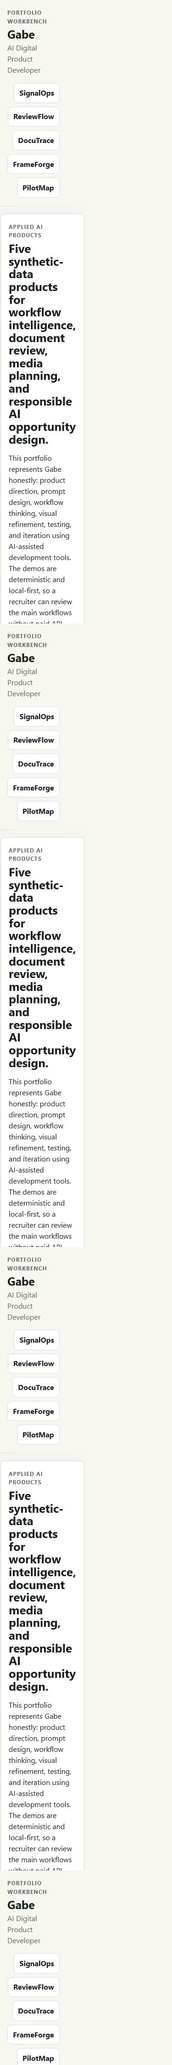
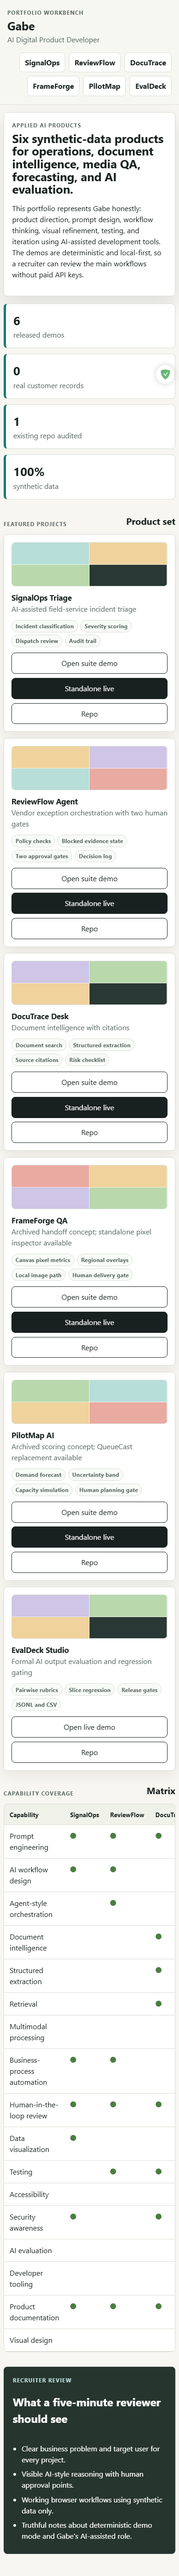
feat: integrate EvalDeck into portfolio

diff --git a/assets/portfolio.js b/assets/portfolio.js
@@ -15,6 +15,8 @@
     "Testing",
     "Accessibility",
     "Security awareness",
+    "AI evaluation",
+    "Developer tooling",
     "Product documentation",
     "Visual design"
   ];
@@ -99,6 +101,22 @@
       oversight: "No worker schedule or employment action is created; a workforce planner adopts or rejects each scenario.",
       features: ["Demand forecast", "Uncertainty band", "Capacity simulation", "Human planning gate"],
       capabilities: ["Prompt engineering", "AI workflow design", "Business-process automation", "Human-in-the-loop review", "Data visualization", "Security awareness", "Product documentation"]
+    },
+    evaldeck: {
+      name: "EvalDeck Studio",
+      shortName: "EvalDeck",
+      subtitle: "Formal AI output evaluation and regression gating",
+      path: "https://jubjub-cpu.github.io/evaldeck-studio/",
+      pathLabel: "Open live demo",
+      standaloneRepo: "https://github.com/jubjub-cpu/evaldeck-studio",
+      standaloneRelease: "https://github.com/jubjub-cpu/evaldeck-studio/releases/tag/v1.0.0",
+      accent: "violet",
+      problem: "AI product teams need repeatable evidence that prompt or model changes do not hide safety, grounding, format, or slice regressions.",
+      user: "AI product engineers, prompt engineers, evaluation specialists, and QA leads",
+      ai: "Scores baseline and candidate outputs with four transparent rubrics, aggregates slice health and disagreement, and applies configurable regression gates.",
+      oversight: "Raw scores remain visible; reasoned human overrides and the final release decision are recorded separately.",
+      features: ["Pairwise rubrics", "Slice regression", "Release gates", "JSONL and CSV"],
+      capabilities: ["Prompt engineering", "AI workflow design", "Human-in-the-loop review", "Data visualization", "Testing", "Accessibility", "Security awareness", "AI evaluation", "Developer tooling", "Product documentation"]
     }
   };
 
@@ -254,7 +272,7 @@
           ${product.features.map((feature) => `<span class="tag">${feature}</span>`).join("")}
         </div>
         <div class="button-row project-actions">
-          <a class="button-link secondary" href="${product.path}">Open suite demo</a>
+          <a class="button-link secondary" href="${product.path}">${product.pathLabel || "Open suite demo"}</a>
           ${product.standaloneDemo ? `<a class="button-link" href="${product.standaloneDemo}">Standalone live</a>` : ""}
           ${product.standaloneRepo ? `<a class="button-link secondary" href="${product.standaloneRepo}">Repo</a>` : ""}
         </div>

diff --git a/index.html b/index.html
@@ -4,7 +4,7 @@
   <meta charset="utf-8">
   <meta name="viewport" content="width=device-width, initial-scale=1">
   <title>Gabe - AI Digital Product Developer</title>
-  <meta name="description" content="A truthful portfolio of AI-assisted digital product demos built around practical business workflows.">
+  <meta name="description" content="Six truthful AI-assisted digital product demos spanning operations, documents, media QA, forecasting, and AI evaluation.">
   <link rel="stylesheet" href="assets/styles.css">
 </head>
 <body data-page="portfolio">
@@ -21,6 +21,7 @@
       <a href="projects/doctrace-desk/index.html">DocuTrace</a>
       <a href="projects/frameforge-qa/index.html">FrameForge</a>
       <a href="projects/pilotmap-ai/index.html">PilotMap</a>
+      <a href="https://jubjub-cpu.github.io/evaldeck-studio/">EvalDeck</a>
     </nav>
   </header>
 
@@ -28,14 +29,14 @@
     <section class="intro-grid" aria-labelledby="portfolio-title">
       <div class="intro-copy">
         <p class="eyebrow">Applied AI products</p>
-        <h2 id="portfolio-title">Five synthetic-data products for workflow intelligence, document review, media planning, and responsible AI opportunity design.</h2>
+        <h2 id="portfolio-title">Six synthetic-data products for operations, document intelligence, media QA, forecasting, and AI evaluation.</h2>
         <p>
           This portfolio represents Gabe honestly: product direction, prompt design, workflow thinking, visual refinement, testing, and iteration using AI-assisted development tools.
           The demos are deterministic and local-first, so a recruiter can review the main workflows without paid API keys.
         </p>
       </div>
       <div class="audit-strip" aria-label="Portfolio audit summary">
-        <div><strong>5</strong><span>complete demos</span></div>
+        <div><strong>6</strong><span>released demos</span></div>
         <div><strong>0</strong><span>real customer records</span></div>
         <div><strong>1</strong><span>existing repo audited</span></div>
         <div><strong>100%</strong><span>synthetic data</span></div>
@@ -75,4 +76,3 @@
   <script src="assets/portfolio.js"></script>
 </body>
 </html>
-

diff --git a/assets/styles.css b/assets/styles.css
@@ -219,7 +219,7 @@ textarea {
 
 .project-grid {
   display: grid;
-  grid-template-columns: repeat(5, minmax(190px, 1fr));
+  grid-template-columns: repeat(3, minmax(0, 1fr));
   gap: 0.85rem;
 }
 

diff --git a/docs/FINAL_PORTFOLIO_REPORT.md b/docs/FINAL_PORTFOLIO_REPORT.md
@@ -2,7 +2,7 @@
 
 ## Executive Summary
 
-The first five-project AI Digital Product Developer portfolio is complete as a published static release. It includes five runnable synthetic-data product demos, central portfolio documentation, a capability matrix, case studies, validation checks, screenshots, closed milestone issues, a GitHub release, and next-project prompts.
+The five-project foundation is complete and the portfolio has expanded to six released products with EvalDeck Studio, the first Phase Two release. The published work includes runnable synthetic-data demos, central documentation, a capability matrix, case studies, validation checks, screenshots, closed milestone issues, and versioned GitHub releases.
 
 ## Gabe's Portfolio Positioning
 
@@ -17,6 +17,7 @@ Gabe is positioned as an AI Digital Product Developer who uses AI-assisted devel
 | DocuTrace Desk | [Suite demo](https://jubjub-cpu.github.io/gabe-ai-product-portfolio/projects/doctrace-desk/) / [Standalone demo](https://jubjub-cpu.github.io/doctrace-desk/) | Document review needs source evidence. | Procurement and operations reviewers | Retrieval, cited answers, extraction, version comparison, human verification. | Static HTML/CSS/JS | Logic, repository, local browser, and deployed browser checks passed | Standalone v1.0.0 published |
 | FrameForge Inspect | [Archived suite concept](https://jubjub-cpu.github.io/gabe-ai-product-portfolio/projects/frameforge-qa/) / [Standalone demo](https://jubjub-cpu.github.io/frameforge-inspect/) | Still-image delivery defects need a repeatable local first pass. | Content QA leads and creators | Canvas pixel metrics, clipping and contrast checks, regional overlays, baseline comparison, human decision. | Static HTML/CSS/JS and Canvas | Logic, repository, fixture, local browser, and deployed browser checks passed | Standalone v1.0.0 published |
 | QueueCast Planner | [Archived PilotMap concept](https://jubjub-cpu.github.io/gabe-ai-product-portfolio/projects/pilotmap-ai/) / [Standalone demo](https://jubjub-cpu.github.io/queuecast-planner/) | Service teams need uncertainty-aware capacity scenarios. | Workforce planners | Trend forecast, residual uncertainty, five-assumption simulation, weekly risk, staffing brief, human decision. | Static HTML/CSS/JS and Canvas | Logic, repository, local browser, and deployed browser checks passed | Standalone v1.0.0 published |
+| EvalDeck Studio | [Standalone demo](https://jubjub-cpu.github.io/evaldeck-studio/) | AI product changes need repeatable quality and safety evidence before release. | AI product engineers and QA leads | Pairwise rubric scoring, slice regressions, reference disagreement, configurable gates, reasoned overrides, portable artifacts. | Static HTML/CSS/JS and Canvas | Logic, import/export, repository, local browser, and deployed browser checks passed | Standalone v1.0.0 published |
 
 ## Capability Matrix
 
@@ -33,9 +34,9 @@ The profile README links to the live portfolio and truthfully describes Gabe's A
 ## Recommended Pinned Repositories
 
 1. `gabe-ai-product-portfolio`
-2. `signalops-triage`
-3. `doctrace-desk`
-4. `reviewflow-agent`
+2. `evaldeck-studio`
+3. `signalops-triage`
+4. `doctrace-desk`
 5. `frameforge-inspect`
 6. `queuecast-planner`
 
@@ -43,7 +44,7 @@ The profile README links to the live portfolio and truthfully describes Gabe's A
 
 - `PORTFOLIO VALIDATION PASSED`
 - Browser render checks passed.
-- Interaction checks passed for all five product workflows.
+- Interaction checks passed for all five suite workflows and EvalDeck's standalone regression workflow.
 - Mobile central portfolio check passed at 390 px.
 - No browser console errors observed.
 
@@ -93,6 +94,10 @@ Standalone QueueCast Planner deployment: https://jubjub-cpu.github.io/queuecast-
 
 Standalone QueueCast Planner release: https://github.com/jubjub-cpu/queuecast-planner/releases/tag/v1.0.0
 
+Standalone EvalDeck Studio deployment: https://jubjub-cpu.github.io/evaldeck-studio/
+
+Standalone EvalDeck Studio release: https://github.com/jubjub-cpu/evaldeck-studio/releases/tag/v1.0.0
+
 ## Privacy and Security Summary
 
 All product data is fictional or synthetic. No real customer records, payment-card records, credentials, private communications, employee data, or production logs are included. The validation script scans for common secret patterns.
@@ -101,12 +106,12 @@ All product data is fictional or synthetic. No real customer records, payment-ca
 
 - Pin `gabe-ai-product-portfolio` on the GitHub profile manually. The available GitHub GraphQL schema did not expose a repository-pinning mutation in this environment.
 - Pin `signalops-triage` manually as the strongest standalone operations-intelligence project.
-- Build the five selected Phase Two products in `PHASE_TWO_CANDIDATES.md`.
+- Build the remaining four selected Phase Two products in `PHASE_TWO_CANDIDATES.md`.
 
-## Next Five Projects
+## Next Projects
 
 See `NEXT_5_PROJECTS.md`.
 
 ## Suggested Next Career Step
 
-Use the central portfolio plus SignalOps, DocuTrace, and ReviewFlow to apply for AI product, workflow automation, document intelligence, and operations-focused prototype roles while continuing the foundation wave.
+Use the central portfolio plus EvalDeck, SignalOps, DocuTrace, and FrameForge to apply for AI product, evaluation, workflow automation, document intelligence, and operations-focused prototype roles while continuing Phase Two.

diff --git a/README.md b/README.md
@@ -1,6 +1,6 @@
 # Gabe - AI Digital Product Developer Portfolio
 
-This repository contains five complete, local-first AI digital product demos that show practical workflow design, prompt-shaped reasoning, human review, synthetic data, and recruiter-friendly product documentation.
+This portfolio features six complete, local-first AI digital products that show practical workflow design, prompt-shaped reasoning, formal evaluation, human review, synthetic data, and recruiter-friendly product documentation.
 
 ## Overview
 
@@ -17,6 +17,7 @@ The portfolio does not claim traditional software engineering employment, produc
 | DocuTrace Desk | Reviewers need document answers with source evidence. | Retrieval, structured extraction, citations, version comparison, human verification. | [Suite demo](https://jubjub-cpu.github.io/gabe-ai-product-portfolio/projects/doctrace-desk/) / [Standalone](https://jubjub-cpu.github.io/doctrace-desk/) |
 | FrameForge Inspect | Creative teams need a repeatable first pass for still-image delivery defects. | Actual Canvas pixel metrics, clipping and contrast checks, regional overlays, baseline comparison, human delivery gate. | [Archived suite concept](https://jubjub-cpu.github.io/gabe-ai-product-portfolio/projects/frameforge-qa/) / [Standalone](https://jubjub-cpu.github.io/frameforge-inspect/) |
 | QueueCast Planner | Service teams need visible demand uncertainty and capacity tradeoffs before staffing decisions. | Explainable trend, uncertainty band, five-assumption simulation, weekly risk, staffing brief, human planning gate. | [Archived PilotMap concept](https://jubjub-cpu.github.io/gabe-ai-product-portfolio/projects/pilotmap-ai/) / [Standalone](https://jubjub-cpu.github.io/queuecast-planner/) |
+| EvalDeck Studio | AI product teams need repeatable evidence before prompt or model changes ship. | Four pairwise rubrics, slice regressions, reference disagreement, configurable gates, reasoned overrides, JSONL/JSON/CSV artifacts. | [Standalone](https://jubjub-cpu.github.io/evaldeck-studio/) |
 
 ## Business Problem
 
@@ -32,7 +33,7 @@ Each demo uses deterministic browser logic to simulate AI-style workflow support
 
 ## Main Features
 
-- Five runnable product demos with synthetic data.
+- Six released product demos with synthetic data.
 - Central portfolio page with project cards and capability matrix.
 - Human-in-the-loop review points in every product.
 - Recruiter-facing documentation, roadmap, scorecard, state tracking, blocker tracking, and case studies.
@@ -72,6 +73,10 @@ Current screenshots captured from the implemented local app:
 ![Standalone QueueCast desktop](docs/screenshots/queuecast-standalone-desktop.png)
 
 ![Standalone QueueCast mobile](docs/screenshots/queuecast-standalone-mobile.png)
+
+![Standalone EvalDeck desktop](docs/screenshots/evaldeck-standalone-desktop.png)
+
+![Standalone EvalDeck mobile](docs/screenshots/evaldeck-standalone-mobile.png)
 
 ![Mobile portfolio](docs/screenshots/portfolio-mobile.png)
 
@@ -123,6 +128,12 @@ Standalone QueueCast Planner:
 - [Repository](https://github.com/jubjub-cpu/queuecast-planner)
 - [v1.0.0 release](https://github.com/jubjub-cpu/queuecast-planner/releases/tag/v1.0.0)
 
+Standalone EvalDeck Studio:
+
+- [Live demo](https://jubjub-cpu.github.io/evaldeck-studio/)
+- [Repository](https://github.com/jubjub-cpu/evaldeck-studio)
+- [v1.0.0 release](https://github.com/jubjub-cpu/evaldeck-studio/releases/tag/v1.0.0)
+
 Local fallback:
 
 ```text
@@ -138,6 +149,7 @@ The demos show AI product patterns without pretending a paid model is running:
 - Document retrieval and citations.
 - Creative media QA and handoff drafting.
 - Responsible AI opportunity scoring.
+- Formal AI-output evaluation, regression analysis, and release gating.
 
 ## Human Oversight
 
@@ -218,12 +230,12 @@ powershell -ExecutionPolicy Bypass -File .\tests\portfolio-validation.ps1
 Latest local validation:
 
 - `PORTFOLIO VALIDATION PASSED`
-- Browser smoke test: all five product pages rendered.
+- Browser smoke test: all five suite workflows and the EvalDeck integration rendered.
 - Interaction test: SignalOps approval, ReviewFlow approval, DocuTrace citations, FrameForge revision review, and PilotMap scoring all responded.
-- Mobile check: central portfolio rendered with five project cards at 390 px width.
+- Mobile check: central portfolio rendered with six project cards at 390 px width.
 - Browser console errors: none observed.
 
-The repeatable browser integration check verifies the five-card desktop and mobile layouts plus standalone DocuTrace, ReviewFlow, FrameForge, and QueueCast live, repository, and release links.
+The repeatable browser integration check verifies the six-card desktop and mobile layouts plus the standalone foundation and EvalDeck public links.
 
 ## Deployment
 
@@ -248,7 +260,7 @@ The recruiter-review path does not require a backend or paid API.
 ## Future Improvements
 
 - Add optional bring-your-own-key AI integrations.
-- Build the five selected Phase Two products in `PHASE_TWO_CANDIDATES.md`.
+- Build the remaining four selected Phase Two products in `PHASE_TWO_CANDIDATES.md`.
 - Add live API-backed variants only when privacy, cost, and security boundaries are clear.
 
 ## AI-Assisted Development

diff --git a/PROJECT_NOVELTY_MATRIX.md b/PROJECT_NOVELTY_MATRIX.md
@@ -13,6 +13,7 @@ This matrix compares the current foundation and the approved Phase One direction
 | ReviewFlow Agent, standalone | Approval-sensitive vendor exceptions are handled inconsistently | Procurement operations | Operations manager | Intake, extract, classify, check policy, approve exception, approve response | Vendor request plus fictional policy facts | Deterministic agent orchestration and rules-plus-AI simulation | Approved action plan, editable response, event log, JSON record | Process canvas | Modular local-first static app | GitHub Pages | Required separately at policy and response gates | Logic, validation, local and deployed browser checks | Agent systems without fake autonomy |
 | FrameForge Inspect, standalone | Teams cannot quickly detect visual delivery defects locally | Creative production | Content QA lead | Load synthetic or local image, inspect pixels, compare baseline, review regions, decide delivery | Bitmap pixels and fictional delivery requirements | Browser vision heuristics and visual accessibility checks | Measured report, regional overlay, comparison, decision log | Canvas inspection workbench | Modular browser Canvas with local processing | GitHub Pages | Human approves or requests revision | Logic, fixture, local and deployed browser checks | Real client-side media processing |
 | QueueCast Planner, standalone replacement | Service teams need honest staffing scenarios under uncertain demand | Service operations | Workforce planner | Forecast demand, adjust five assumptions, compare weekly risk, adopt scenario | Time-series demand and aggregate staffing assumptions | Trend forecast, residual uncertainty, scenario simulation | Capacity range, risk weeks, staffing brief, JSON record | Interactive planning board with Canvas chart | Modular deterministic browser simulation | GitHub Pages | Planner owns staffing decision | Logic, Canvas, local and deployed browser checks | Quantitative decision support and uncertainty |
+| EvalDeck Studio, standalone | Prompt or model changes can hide regressions | AI quality engineering | AI product engineer and QA lead | Load suite, compare outputs, inspect rubrics and slices, resolve disagreement, apply gate, decide release | JSONL prompts, outputs, rules, and reference scores | Deterministic pairwise evaluation and regression analysis | Rubric evidence, slice metrics, gate decision, JSON and CSV reports | Evaluation table, diff workbench, and aggregate chart | Modular local-first static app | GitHub Pages | Reasoned override and final release approval | Logic, import/export, local and deployed browser checks | Formal evaluation and developer tooling |
 
 ## Closest-Project Checks
 

diff --git a/PORTFOLIO_STATE.md b/PORTFOLIO_STATE.md
@@ -4,13 +4,13 @@
 | --- | --- |
 | Current phase | Phase Two: net-new expansion wave |
 | Current expansion wave | Five selected products after twelve-candidate scoring |
-| Current project | EvalDeck Studio |
-| Current repository | Central: `jubjub-cpu/gabe-ai-product-portfolio`; next planned: `jubjub-cpu/evaldeck-studio` |
+| Current project | FlowReplay Console |
+| Current repository | Central: `jubjub-cpu/gabe-ai-product-portfolio`; next planned: `jubjub-cpu/flowreplay-console` |
 | Current branch | `main` |
-| Current issue | EvalDeck kickoff issue is the next GitHub milestone |
-| Last completed action | Released QueueCast Planner with forecasting, uncertainty, capacity simulation, deployed tests, and issues 1-3 closed, completing the five-project foundation |
-| Tests last run | QueueCast logic, repository, local browser, deployed browser, HTTP, privacy, and commit-metadata checks passed; central validation and local browser integration checks passed |
+| Current issue | FlowReplay kickoff issue is the next GitHub milestone |
+| Last completed action | Released EvalDeck Studio with formal pairwise evaluation, regression gates, reasoned overrides, JSONL/JSON/CSV artifacts, deployed tests, and issues 1-3 closed |
+| Tests last run | EvalDeck standalone checks passed; central six-card validation, desktop/mobile browser, overflow, console, request, screenshot, and privacy checks passed locally |
 | Active failures | None |
 | Active blocker | Optional GitHub Actions workflow cannot be added with the current token because it lacks workflow scope; checked-in local and deployed validation remains available |
-| Uncommitted changes | None after the published Phase One completion checkpoint |
-| Exact next action | Create `jubjub-cpu/evaldeck-studio`, open its kickoff issue, and build the formal evaluation workflow |
+| Uncommitted changes | None after the EvalDeck integration checkpoint is committed |
+| Exact next action | Publish and verify the EvalDeck integration, then create `jubjub-cpu/flowreplay-console` and its kickoff issue |

diff --git a/DECISIONS.md b/DECISIONS.md
@@ -15,3 +15,4 @@
 | 2026-07-17 | ReviewFlow | Release the rebuilt vendor-exception workspace as standalone v1.0.0 and recommend it for pinning. | Keep the generic embedded demo as the featured version; add live model calls before release. | The standalone product demonstrates visible staged orchestration, policy checks, blocked evidence, editable drafting, two distinct human gates, event history, export, and deployed browser validation without external actions. | Phase One is 3 of 5 complete; FrameForge Inspect becomes the next foundation project. |
 | 2026-07-17 | FrameForge | Release FrameForge Inspect as standalone v1.0.0 and preserve the metadata-only embedded app as archive evidence. | Promote the old handoff generator; require a hosted vision model. | Actual Canvas pixel analysis, generated bitmap fixtures, regional overlays, baseline comparison, local file handling, human decisions, and repeatable deployed tests provide stronger and more truthful multimodal evidence without transmitting creative assets. | Phase One is 4 of 5 complete; QueueCast Planner becomes the final foundation replacement. |
 | 2026-07-17 | QueueCast | Release QueueCast Planner as v1.0.0 and preserve PilotMap only as an embedded archive. | Expand generic opportunity scoring; add another recommendation workflow. | QueueCast adds transparent forecasting, uncertainty, capacity simulation, quantitative visualization, and staffing tradeoffs without worker data or employment actions. | Phase One is complete; Phase Two candidate scoring begins immediately. |
+| 2026-07-18 | EvalDeck | Release EvalDeck Studio as the first Phase Two product. | Start with event tooling; use a hosted judge model. | A deterministic evaluator makes formal rubrics, regressions, slice failures, disagreement, overrides, and release policy observable without API cost or customer outputs. | Phase Two is 1 of 5 complete; FlowReplay Console becomes next. |

diff --git a/docs/GITHUB_PROFILE_README.md b/docs/GITHUB_PROFILE_README.md
@@ -18,6 +18,8 @@ My current focus is AI-assisted development, prompt engineering, workflow design
 - **FrameForge Repository:** https://github.com/jubjub-cpu/frameforge-inspect
 - **Standalone QueueCast:** https://jubjub-cpu.github.io/queuecast-planner/
 - **QueueCast Repository:** https://github.com/jubjub-cpu/queuecast-planner
+- **Standalone EvalDeck:** https://jubjub-cpu.github.io/evaldeck-studio/
+- **EvalDeck Repository:** https://github.com/jubjub-cpu/evaldeck-studio
 
 | Project | What It Demonstrates |
 | --- | --- |
@@ -26,6 +28,7 @@ My current focus is AI-assisted development, prompt engineering, workflow design
 | DocuTrace Desk | Standalone local-first document review with cited retrieval, structured extraction, version comparison, human verification, and deployed browser tests. |
 | FrameForge Inspect | Standalone local-first Canvas image inspection with measured pixel metrics, regional overlays, baseline comparison, local file boundaries, and a human delivery gate. |
 | QueueCast Planner | Explainable demand forecasting, residual uncertainty, five-assumption capacity simulation, weekly risk, and a human planning gate. |
+| EvalDeck Studio | Formal AI-output evaluation with pairwise rubrics, slice regressions, reference disagreement, configurable release gates, and reasoned human overrides. |
 
 ## AI Patterns
 
@@ -39,6 +42,8 @@ My current focus is AI-assisted development, prompt engineering, workflow design
 - Browser image processing and visual QA
 - Responsible AI opportunity assessment
 - Forecasting, uncertainty, and capacity simulation
+- AI evaluation, regression analysis, and release gating
+- Local-first developer tooling and portable evaluation artifacts
 
 ## Current Learning Focus
 

diff --git a/PORTFOLIO_CAPABILITY_LEDGER.md b/PORTFOLIO_CAPABILITY_LEDGER.md
@@ -22,7 +22,7 @@ Status key: **Strong** = implemented and directly testable; **Partial** = visibl
 | Browser-based processing | Strong | Strong | Strong | Strong | Strong | Strong |
 | API design | Missing | Missing | Missing | Missing | Missing | Missing |
 | Event-driven automation | Missing | Missing | Strong | Missing | Missing | Strong |
-| Evaluation systems | Missing | Missing | Missing | Missing | Missing | Missing |
+| Evaluation systems | Missing | Missing | Missing | Missing | Missing | Strong via EvalDeck |
 | Accessibility | Strong | Strong | Strong | Strong | Partial | Strong |
 | Security | Partial | Strong | Strong | Strong | Partial | Strong |
 | Testing | Strong | Strong | Strong | Strong | Partial | Strong |
@@ -40,3 +40,9 @@ Status key: **Strong** = implemented and directly testable; **Partial** = visibl
 | QueueCast Planner | Replaced PilotMap | Standalone v1.0.0 with trend forecasting, residual uncertainty, five scenario assumptions, weekly capacity risk, Canvas visualization, human adoption, export, and deployed tests |
 
 The Phase Two wave must add formal evaluation, developer tooling, API design, audio, background automation, and privacy-preserving processing.
+
+## Phase Two Evidence
+
+| Project | New strong capabilities | Verified evidence |
+| --- | --- | --- |
+| EvalDeck Studio | Formal AI-output evaluation, developer tooling, pairwise regression, slice metrics, disagreement review, release gates, JSONL import, JSON/CSV artifacts | Standalone v1.0.0 with logic, repository, local browser, deployed browser, privacy, accessibility, screenshot, issue, and release evidence |

diff --git a/PORTFOLIO_ROADMAP.md b/PORTFOLIO_ROADMAP.md
@@ -7,6 +7,7 @@
 | 3 | DocuTrace Desk | Document intelligence | Reviewers need evidence-backed answers from business documents. | Procurement and operations reviewers | Standalone complete | [Standalone repository](https://github.com/jubjub-cpu/doctrace-desk) | [Standalone demo](https://jubjub-cpu.github.io/doctrace-desk/) | v1.0.0 | None | Feature and maintain |
 | 4 | FrameForge Inspect | Browser image inspection | Creative teams need a repeatable first pass for still-image delivery defects. | Content QA leads and creators | Standalone complete | [Standalone repository](https://github.com/jubjub-cpu/frameforge-inspect) | [Standalone demo](https://jubjub-cpu.github.io/frameforge-inspect/) | v1.0.0 | None | Feature and maintain; keep embedded FrameForge QA as archive |
 | 5 | QueueCast Planner | Forecasting and capacity simulation | Service teams need uncertainty-aware staffing scenarios. | Workforce planners | Standalone complete | [Standalone repository](https://github.com/jubjub-cpu/queuecast-planner) | [Standalone demo](https://jubjub-cpu.github.io/queuecast-planner/) | v1.0.0 | None | Feature and maintain; keep embedded PilotMap as archive |
+| 6 | EvalDeck Studio | AI quality engineering | Prompt and model changes need repeatable regression evidence. | AI product engineers and QA leads | Standalone complete | [Standalone repository](https://github.com/jubjub-cpu/evaldeck-studio) | [Standalone demo](https://jubjub-cpu.github.io/evaldeck-studio/) | v1.0.0 | None | Feature and maintain |
 
 ## Inventory Classification
 

diff --git a/PHASE_TWO_CANDIDATES.md b/PHASE_TWO_CANDIDATES.md
@@ -4,7 +4,7 @@ Scoring dimensions are business clarity, novelty versus the foundation, missing-
 
 | Candidate | Domain | Primary data | Interface | Key new evidence | Clarity | Novelty | Gap | Build | Employer | Scope | Total | Decision |
 | --- | --- | --- | --- | --- | ---: | ---: | ---: | ---: | ---: | ---: | ---: | --- |
-| EvalDeck Studio | AI quality engineering | JSONL prompts and outputs | Evaluation table and diff | Rubrics, pairwise evaluation, regression suites | 5 | 5 | 5 | 5 | 5 | 5 | 30 | Select 1 |
+| EvalDeck Studio | AI quality engineering | JSONL prompts and outputs | Evaluation table and diff | Rubrics, pairwise evaluation, regression suites | 5 | 5 | 5 | 5 | 5 | 5 | 30 | Complete: v1.0.0 |
 | FlowReplay Console | Developer infrastructure | Webhook events and API schemas | Event timeline and contract console | API design, replay, idempotency, failure injection | 5 | 5 | 5 | 4 | 5 | 5 | 29 | Select 2 |
 | VoiceGauge Local | Customer-support QA | Local audio waveform | Waveform timeline | Audio processing, privacy, silence and clipping analysis | 5 | 5 | 5 | 4 | 5 | 5 | 29 | Select 3 |
 | ColdChain Sentinel | Logistics | Sensor telemetry | Monitoring board and route view | Multivariate anomaly detection and incident evidence | 5 | 5 | 4 | 5 | 5 | 5 | 29 | Select 4 |
